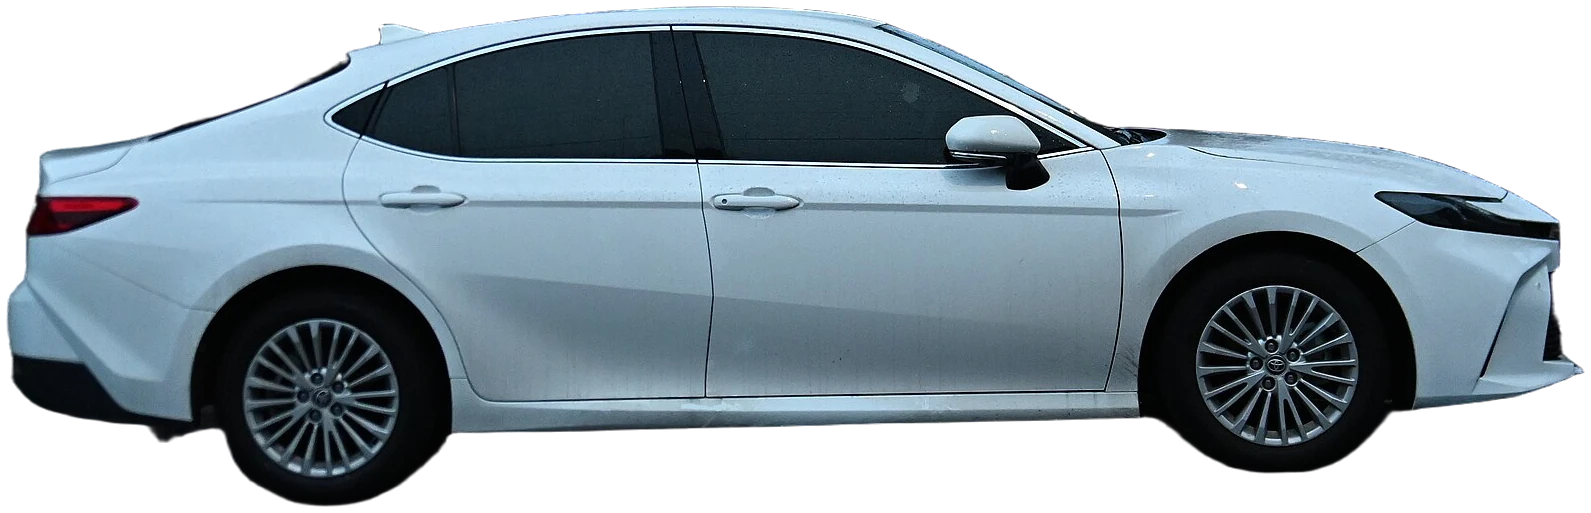
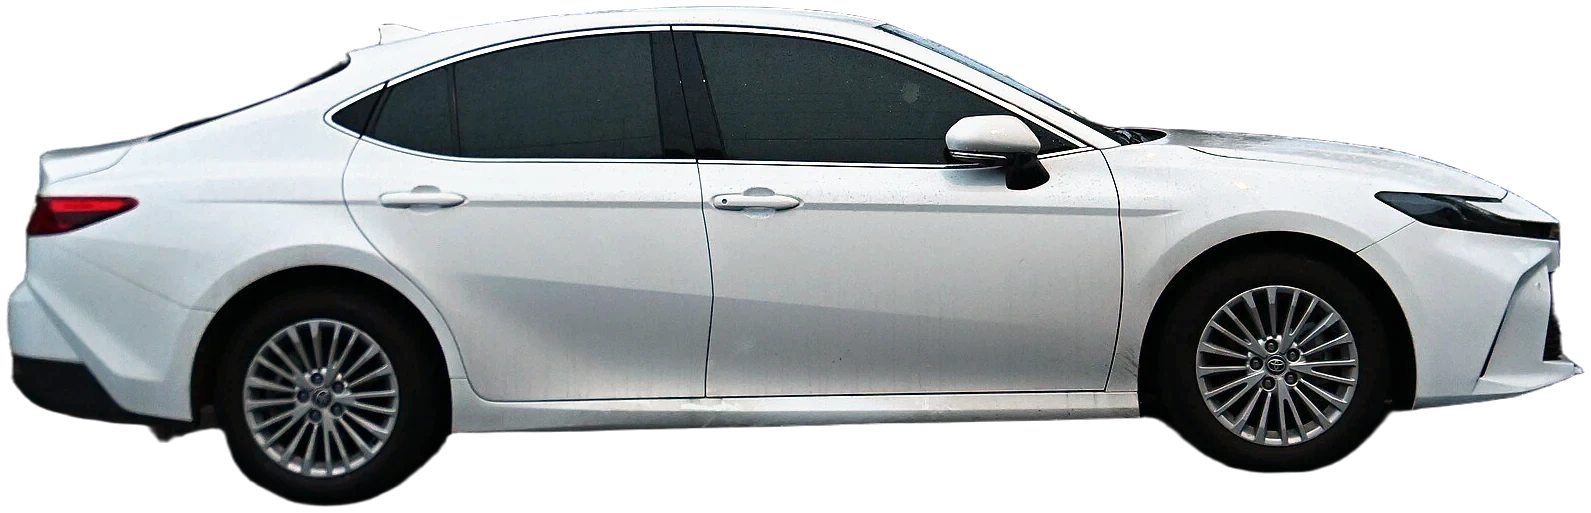
The white Camry relit to daylight: one white balance and one exposure, never retouched (rule 188)
The owner, 2026-11-25: "why does this one look so dark / shaded?", "I like
the car and model is good popular", "Yes, brighten it". The ad shades
nothing; the CC0 photograph was taken on an overcast, wet day. Its white
paint measured blue at 1.8x its red (linear) and half a stop low.

scripts/relight_cutout.mjs corrects a listed cut-out as one light: the
paint toward daylight white (85% of the way, a touch warm), then one gain
to a set white with a soft shoulder; the alpha and the edge untouched, the
rain on the paint kept. The Camry: red x1.40, blue x0.83, +0.46 stops.
assets/cutouts/RELIGHT.json keeps the settings, the measures and the
SHA-256 before and after, so a second run does nothing and --check holds it.

diff --git a/DESIGN-LAW.md b/DESIGN-LAW.md
@@ -7830,3 +7830,24 @@ claim signed out and in, Starter's credits and downloads, a token spent twice, a
 checkout refusal before Stripe is asked, the check-back up, down, unanswered and long over, and the link off
 without the secret. `--serve <port>` runs the site and the function on a stand-in store for a local run
 against a local Reselling.US.
+
+## 188. A product photographed in poor light is relit as one light, never retouched
+
+Added 2026-11-25. The owner, of the white 2025 Camry on a cyan ad: "why does this one look so dark /
+shaded?", then "I like the car and model is good popular", "Yes, brighten it". The ad shades nothing;
+the photograph (CC0, Commons) was taken on an overcast, wet day. Its white paint measured blue at 1.8
+times its red in linear light, and half a stop low, so on a bright ground it read grey.
+
+- **One light, the whole picture**: `scripts/relight_cutout.mjs` brings the paint (opaque pixels
+  brighter than .35, linear) toward daylight white, a touch warm, `strength` of the way, then lifts
+  it to `white` with one exposure gain and a soft shoulder from `knee`, so nothing clips. The alpha
+  is untouched: the edge stays as the cutter cut it. Nothing is painted, cloned or removed; the rain
+  on the paint stays.
+- **Kept as data**: `assets/cutouts/RELIGHT.json` holds each picture's reason, settings, what was
+  measured (the paint's colour, the gains, the stops) and the SHA-256 of the cut it was applied to
+  and of what it wrote. A second run does nothing; a fresh cut is relit again;
+  `node scripts/relight_cutout.mjs --check` fails when a listed picture is not its relit file.
+- The Camry: red ×1.40, blue ×0.83, +0.46 stops. Before and after on cyan, navy and paper:
+  `.render/camry-before-after.png` (not in git), for the owner.
+- Only a photograph that reads wrong is listed. A shop's own photograph, or one already in good
+  light, is never run through it.
